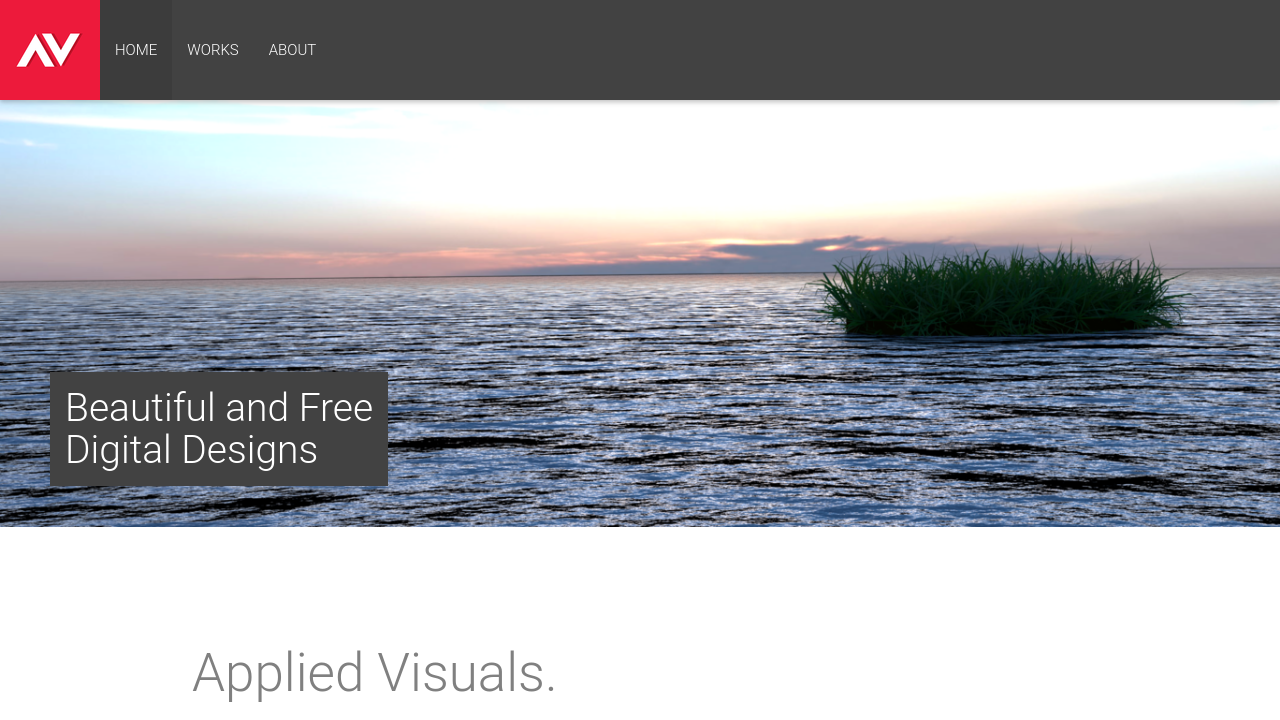
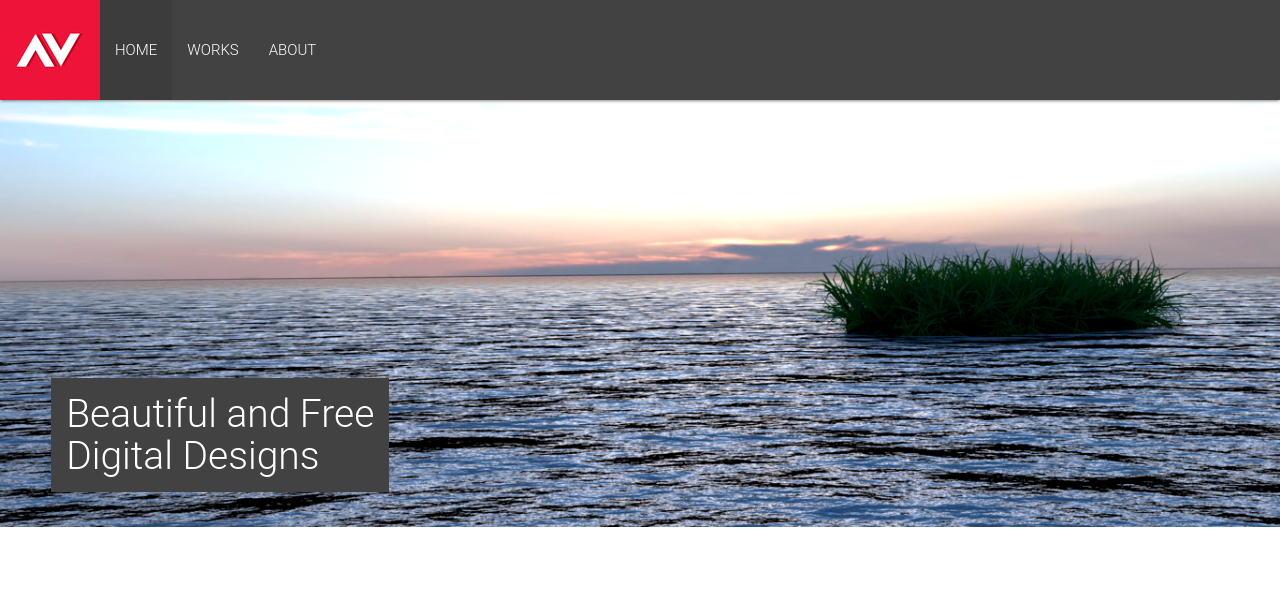
Made website gallery wider and shorter

diff --git a/css/style.css b/css/style.css
@@ -11,7 +11,7 @@
 /* website gallery on index.html */
 
  .carousel-slider {
-	width: 80vw !important;
+	/*width: 80vw !important;*/
 	height: calc(80vw * 0.5625) !important;
 	margin-left: auto;
 	margin-right: auto;
